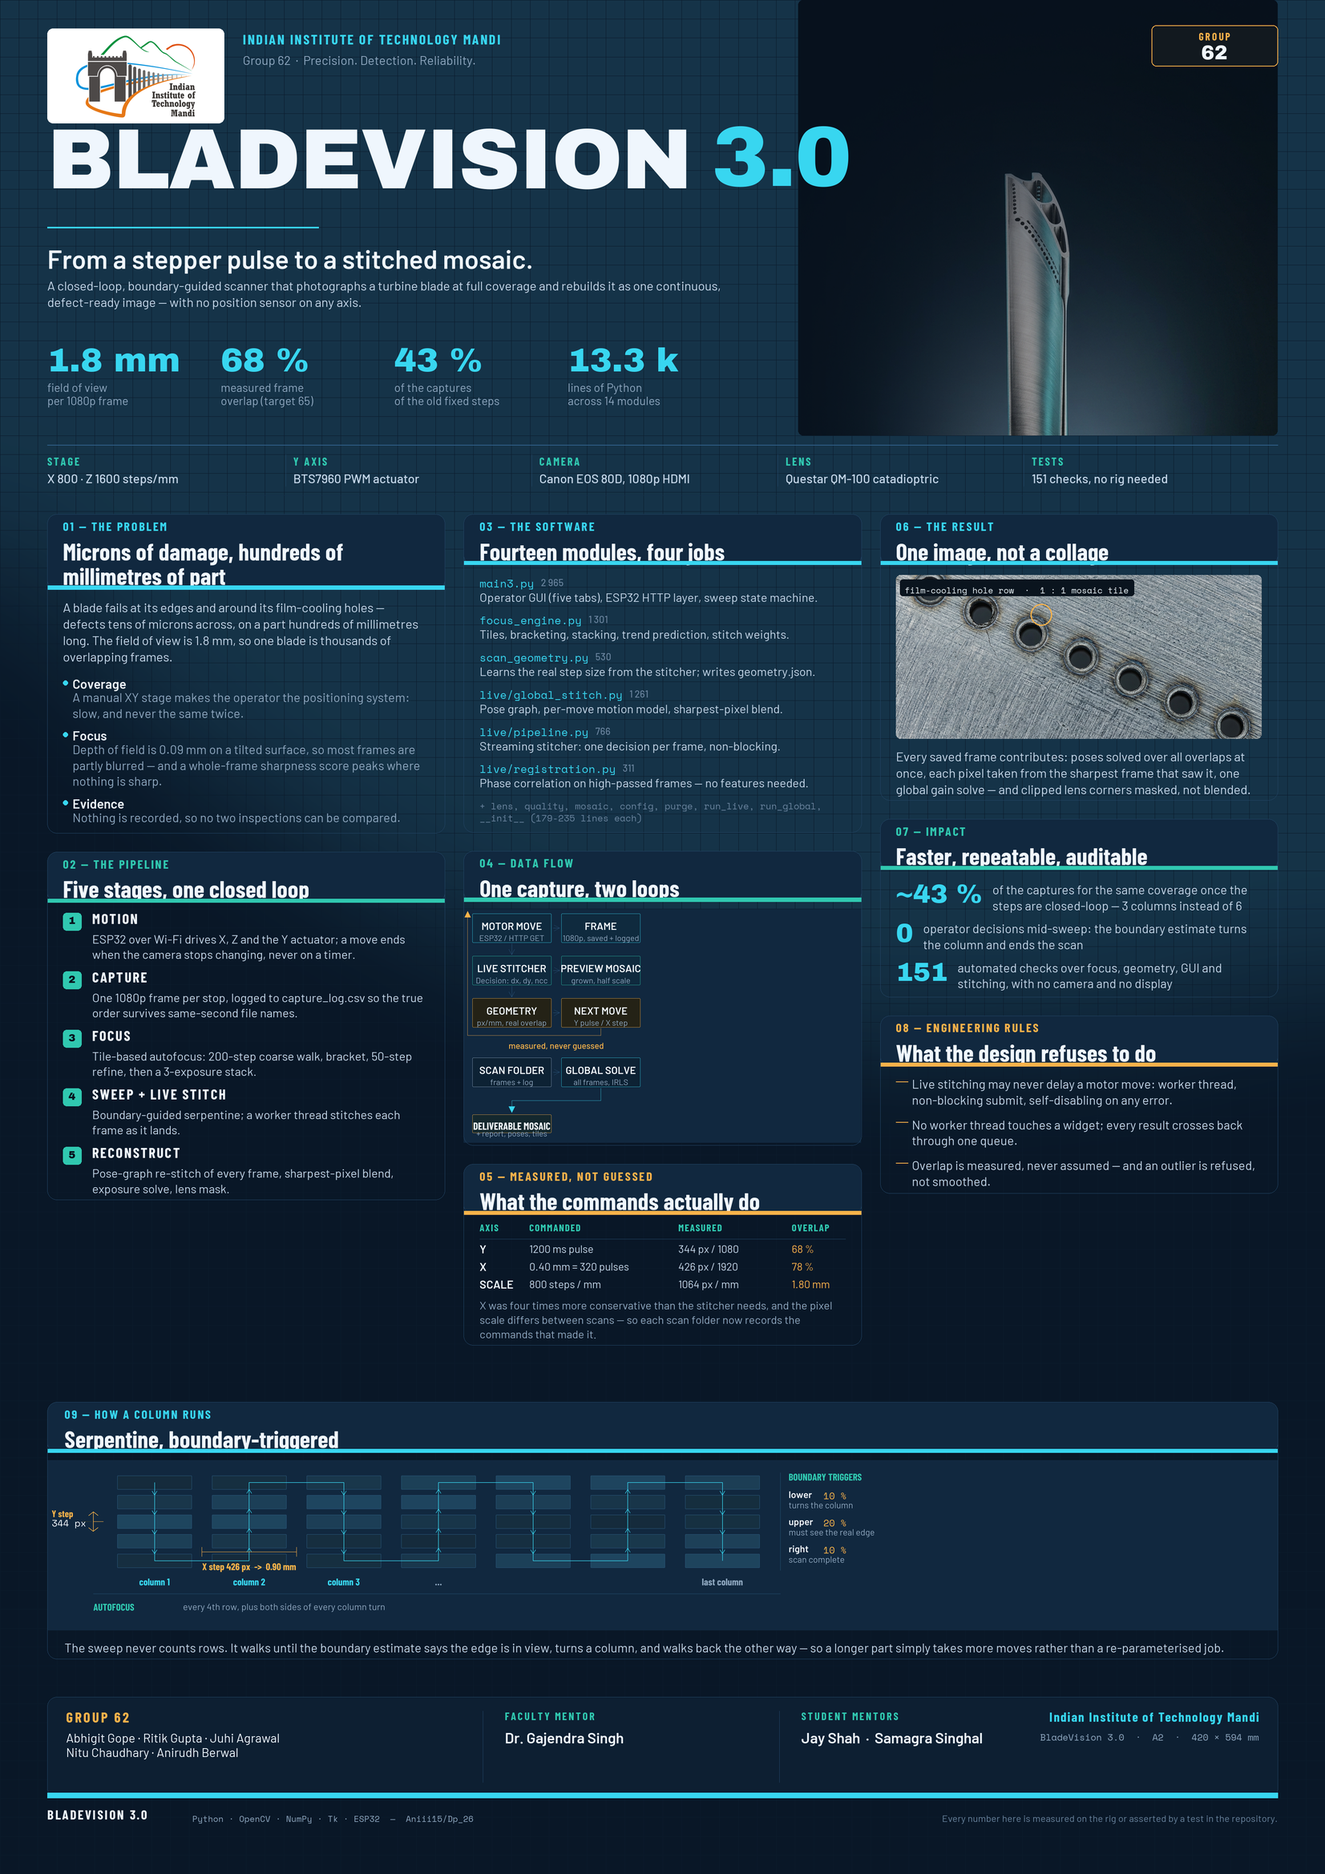
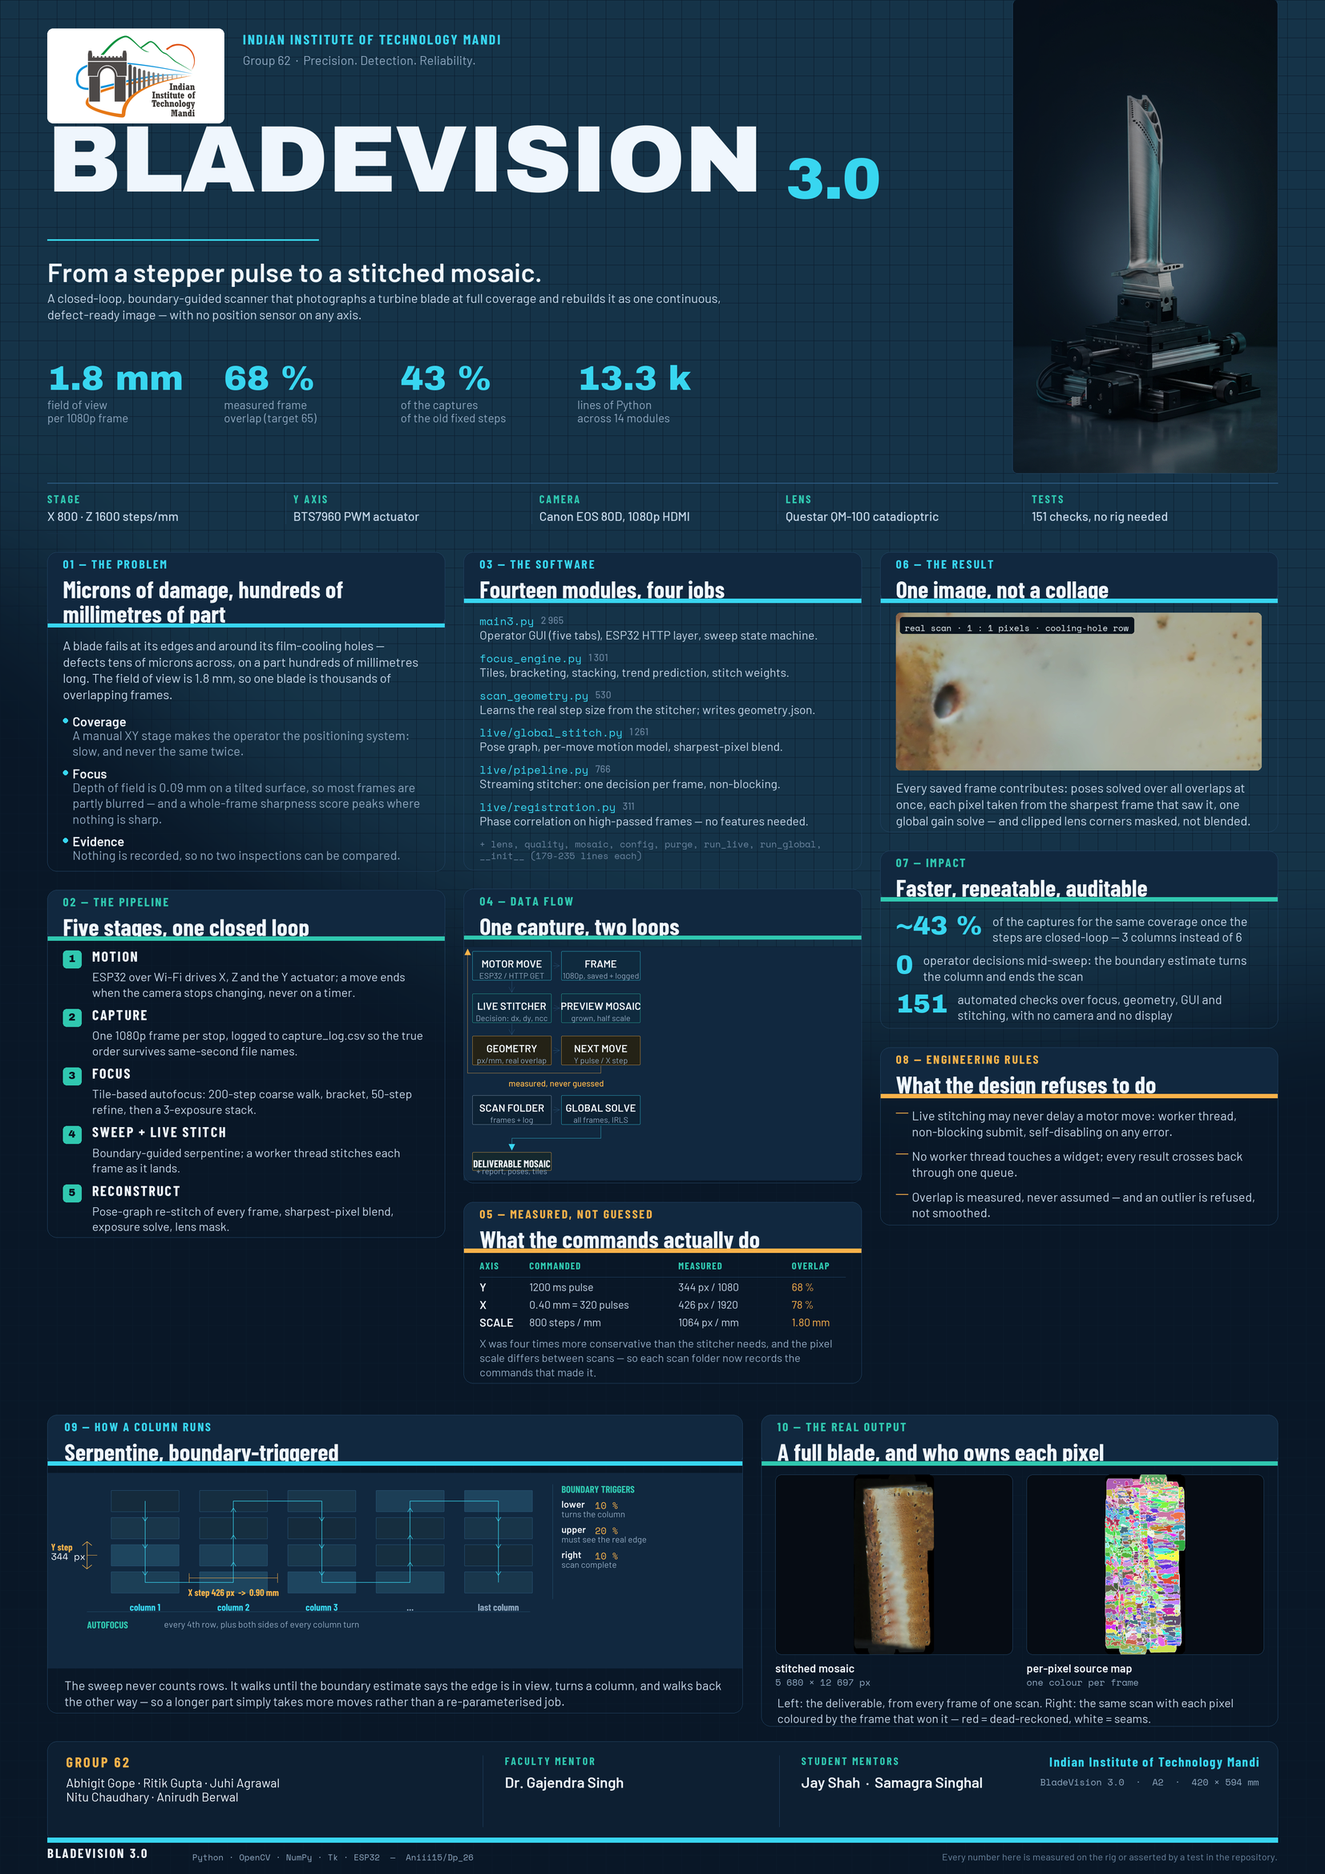
Poster v3: hero fitted whole, narrower sweep band, real scan images
Three fixes and the real data the poster was missing.

1. The masthead no longer collides.  The title is auto-fitted to the free
   width (it was set at a size that ran under the photo), and the hero is
   now a ~84 mm plate at full band height instead of a 152 mm crop: the
   blade image is 768x1376, so a tall narrow plate fits it exactly, tip to
   stage, with no part of it hidden under text.

2. "How a column runs" is no longer full width.  It takes 56.5 % of the
   measure (five columns, 4 rows, legend to the right, autofocus lane
   underneath), and the space to its right now holds the two real images:

     left   the 5 680 x 12 697 px stitched mosaic of a whole blade
     right  the per-pixel source map from the same scan

   with a caption that says what they are, plus a 1:1 crop of the same
   mosaic in the "result" card, replacing the generated surface render.
   Only the hero render is synthetic now.

   The source map is global_stitch.compose()'s _sources.png: each canvas
   pixel coloured by the frame that won it (Potts-MRF, seed 7), red for
   frames placed by dead reckoning, white for seams -- the diagnostic that
   says whether a line is a stitch error or real surface.

Also re-flowed the bottom band so the credits no longer run off the sheet
at 200 dpi, and documented both images in poster/README.md.

diff --git a/poster/build_poster.py b/poster/build_poster.py
@@ -153,6 +153,15 @@ def load_cover(path: str, w_px: int, h_px: int, focus_y=0.35) -> Image.Image:
     return im.resize((w_px, h_px), Image.LANCZOS)
 
 
+def load_fit(path: str, w_px: int, h_px: int) -> tuple[Image.Image, int]:
+    """Scale to fit *inside* the box, never crop.  Returns (image, y offset)."""
+    im = Image.open(path).convert("RGB")
+    sw, sh = im.size
+    k = min(w_px / sw, h_px / sh)
+    nw, nh = max(1, int(sw * k)), max(1, int(sh * k))
+    return im.resize((nw, nh), Image.LANCZOS), (h_px - nh) // 2
+
+
 def rounded_mask(size, radius):
     m = Image.new("L", size, 0)
     ImageDraw.Draw(m).rounded_rectangle([0, 0, size[0] - 1, size[1] - 1],
@@ -208,20 +217,28 @@ def build(dpi: int, out: str) -> str:
         xx += 6.0
 
     # ══ MASTHEAD ════════════════════════════════════════════════════════════
-    BAND = 138.0
-    hero_w = 152.0
+    BAND = 150.0
+    # The hero keeps its full height: the blade is 768x1376 (0.56 aspect), so a
+    # ~84 mm wide plate at 150 mm tall fits it almost exactly instead of
+    # cropping the tip or the stage.  Everything else gets the space back.
+    hero_w = 84.0
     hero_x = X1 - hero_w
-    hero = load_cover(os.path.join(ASSETS, "blade_hero.png"),
-                      c.px(hero_w), c.px(BAND), focus_y=0.0)
-    hero = fade(hero, "up", NAVY, 205)
-    hx, hw, hh = c.px(hero_x), hero.size[0], hero.size[1]
+    hero, oy = load_fit(os.path.join(ASSETS, "blade_hero.png"),
+                        c.px(hero_w), c.px(BAND))
+    hero = fade(hero, "up", NAVY, 120)
+    d.rounded_rectangle([c.px(hero_x) - 1, 0, c.px(hero_x + hero_w),
+                         c.px(BAND)], radius=c.px(1.5), fill=(12, 26, 42),
+                         outline=BORDER, width=1)
+    hw, hh = hero.size
+    hero_rgba = hero.convert("RGBA")
     veil = Image.new("RGBA", (hw, hh), (0, 0, 0, 0))
     vd = ImageDraw.Draw(veil)
     for i in range(hw):
-        a = int(210 * (1 - i / hw) ** 1.5)
+        a = int(150 * (1 - i / hw) ** 1.6)
         vd.line([(i, 0), (i, hh)], fill=NAVY + (a,))
-    hero_rgba = Image.alpha_composite(hero.convert("RGBA"), veil).convert("RGB")
-    c.img.paste(hero_rgba, (hx, 0), rounded_mask(hero_rgba.size, c.px(1.5)))
+    hero_rgba = Image.alpha_composite(hero_rgba, veil).convert("RGB")
+    c.img.paste(hero_rgba, (c.px(hero_x) + (c.px(hero_w) - hw) // 2, oy),
+                rounded_mask(hero_rgba.size, c.px(1.2)))
 
     # ── institute mark, on a white plate (the logo is a white-ground original)
     LW, LH = 56.0, 30.0
@@ -237,24 +254,34 @@ def build(dpi: int, out: str) -> str:
     c.img.paste(logo, (c.px(X0 + (LW - lw / c.k) / 2),
                        c.px(9 + (LH - lh / c.k) / 2) + 3))
 
-    # ── institutional line, to the right of the mark
     kx = X0 + LW + 6.0
     c.text(kx, 11.0, "INDIAN INSTITUTE OF TECHNOLOGY MANDI", c.font("head", 4.4),
            CYAN, spacing=0.45)
     c.text(kx, 16.6, "Group 62  ·  Precision. Detection. Reliability.",
            c.font("body", 3.9), MUTED)
 
-    title_f = c.font("display", 27)
-    c.text(X0, 41.0, "BLADEVISION", title_f, WHITE, spacing=-0.3)
-    tw = d.textlength("BLADEVISION", font=title_f) / c.k
-    c.text(X0 + tw + 3.0, 40.3, "3.0", c.font("display", 27), CYAN,
-           spacing=-0.3)
+    # ── title, sized to the space that is actually free
+    gap_r = hero_x - 8.0
+    title_src = "BLADEVISION"
+    size = 30.0
+    while size > 16.0:
+        f = c.font("display", size)
+        t = d.textlength(title_src, font=f) / c.k
+        t2 = d.textlength("3.0", font=c.font("display", size * 0.62)) / c.k
+        if X0 + t + 4.0 + t2 <= gap_r:
+            break
+        size -= 0.4
+    title_f = c.font("display", size)
+    c.text(X0, 40.0, title_src, title_f, WHITE, spacing=-0.3)
+    tw = d.textlength(title_src, font=title_f) / c.k
+    c.text(X0 + tw + 4.0, 40.0 + size * 0.34, "3.0",
+           c.font("display", size * 0.62), CYAN, spacing=-0.3)
 
-    d.line([(c.px(X0), c.px(72)), (c.px(X0 + 86), c.px(72))], fill=CYAN,
+    d.line([(c.px(X0), c.px(76)), (c.px(X0 + 86), c.px(76))], fill=CYAN,
            width=max(2, c.px(0.5)))
-    c.text(X0, 77.0, "From a stepper pulse to a stitched mosaic.",
-           c.font("semibold", 8.2), WHITE)
-    c.para(X0, 88.0, 228.0,
+    c.text(X0, 81.0, "From a stepper pulse to a stitched mosaic.",
+           c.font("semibold", 8.4), WHITE)
+    c.para(X0, 92.0, min(226.0, gap_r - X0),
            "A closed-loop, boundary-guided scanner that photographs a turbine "
            "blade at full coverage and rebuilds it as one continuous, "
            "defect-ready image — with no position sensor on any axis.",
@@ -265,17 +292,9 @@ def build(dpi: int, out: str) -> str:
             ("68 %", "measured frame\noverlap (target 65)"),
             ("43 %", "of the captures\nof the old fixed steps"),
             ("13.3 k", "lines of Python\nacross 14 modules")]):
-        sx = X0 + i * 55.0
-        c.text(sx, 108.5, big, c.font("display", 10.6), CYAN)
-        c.text(sx, 120.5, small, c.font("body", 3.7), MUTED)
-
-    bw = 40.0
-    d.rounded_rectangle([c.px(X1 - bw), c.px(8), c.px(X1), c.px(21)],
-                        radius=c.px(1.5), fill=(18, 25, 31), outline=AMBER,
-                        width=max(1, c.px(0.25)))
-    c.text(X1 - bw / 2, 10.4, "GROUP", c.font("head", 3.3), AMBER, anchor="ma",
-           spacing=0.6)
-    c.text(X1 - bw / 2, 13.2, "62", c.font("display", 6.2), WHITE, anchor="ma")
+        sx = X0 + i * 56.0
+        c.text(sx, 114.0, big, c.font("display", 10.8), CYAN)
+        c.text(sx, 126.0, small, c.font("body", 3.7), MUTED)
 
     # ══ SPEC BAR ════════════════════════════════════════════════════════════
     spec_y = BAND + 3.0
@@ -523,16 +542,13 @@ def build(dpi: int, out: str) -> str:
     x, y = cx[2], TOP
     ty = card(x, y, col_w, "06 — THE RESULT", "One image, not a collage")
     p = ty + 3.2
-    IMG_H = 52.0
-    macro = load_cover(os.path.join(ASSETS, "surface_macro.png"),
+    IMG_H = 50.0
+    macro = load_cover(os.path.join(ASSETS, "real_detail.png"),
                        c.px(col_w - 2 * tx), c.px(IMG_H), focus_y=0.5)
     mx, my = x + tx, p
     c.img.paste(macro, (c.px(mx), c.px(my)),
                 rounded_mask(macro.size, c.px(1.4)))
-    ring_x, ring_y = mx + 46.0, my + 12.6
-    d.ellipse([c.px(ring_x - 3.4), c.px(ring_y - 3.4), c.px(ring_x + 3.4),
-               c.px(ring_y + 3.4)], outline=AMBER, width=max(2, c.px(0.34)))
-    cap = "film-cooling hole row  ·  1 : 1 mosaic tile"
+    cap = "real scan · 1 : 1 pixels · cooling-hole row"
     cap_w = d.textlength(cap, font=c.font("mono", 2.7)) / c.k + 3.2
     d.rounded_rectangle([c.px(mx + 1.2), c.px(my + 1.4),
                          c.px(mx + 1.2 + cap_w), c.px(my + 6.6)],
@@ -586,20 +602,21 @@ def build(dpi: int, out: str) -> str:
     # ══ SERPENTINE (full width) ═════════════════════════════════════════════
     # the band sits in the space that is left, a little closer to the credits
     # than to the columns above it
-    by = col_bottom + GAP + 12.0
-    ty = card(X0, by, CW, "09 — HOW A COLUMN RUNS",
+    by = col_bottom + GAP + 4.0
+    serp_w = CW * 0.565
+    ty = card(X0, by, serp_w, "09 — HOW A COLUMN RUNS",
               "Serpentine, boundary-triggered", pad=5.4)
     p = ty + 2.4
-    DH = 54.0
-    patch = Image.new("RGB", (c.px(CW) * S, int(DH * c.k) * S), PANEL2)
+    DH = 62.0
+    patch = Image.new("RGB", (c.px(serp_w) * S, int(DH * c.k) * S), PANEL2)
     pd = ImageDraw.Draw(patch)
 
     def Q(a, b):
         return (a * c.k * S, b * c.k * S)
 
-    ncol, nrow = 7, 5
-    cwid, chei = 30.0, 6.2
-    ox, oy = 19.0, 4.0
+    ncol, nrow = 5, 4
+    cwid, chei = 28.0, 8.6
+    ox, oy = 17.0, 4.6
     for ci in range(ncol):
         for ri in range(nrow):
             x0 = ox + ci * cwid
@@ -611,11 +628,10 @@ def build(dpi: int, out: str) -> str:
                                  radius=1.6 * S, fill=fill,
                                  outline=(40, 84, 118), width=S)
         label = (f"column {ci + 1}" if ci < 3 else
-                 ("…" if ci == 3 else ("last column" if ci == 6 else "")))
+                 ("…" if ci == 3 else "last column"))
         pd.text(Q(ox + ci * cwid + cwid / 2, oy + nrow * chei + 1.6), label,
                 font=dfont("head", 3.1),
                 fill=CYAN if ci < 3 else MUTED, anchor="ma")
-
 
     path = []
     for ci in range(ncol):
@@ -637,6 +653,7 @@ def build(dpi: int, out: str) -> str:
                        tip[1] - 1.5 * math.sin(ang + sgn * 0.55)), Q(*tip)],
                     fill=CYAN, width=int(1.3 * S))
 
+    # Y step bracket, on the left
     yb = oy + 2.5 * chei
     pd.line([Q(ox - 4.4, yb - chei / 2), Q(ox - 4.4, yb + chei / 2)],
             fill=AMBER, width=int(1.4 * S))
@@ -646,55 +663,90 @@ def build(dpi: int, out: str) -> str:
         pd.line([Q(ox - 4.4 + sgn * 1.5, yb + chei / 2 - 1.2),
                  Q(ox - 4.4, yb + chei / 2)], fill=AMBER, width=int(1.4 * S))
     pd.line([Q(ox - 4.4, yb), Q(ox - 1.2, yb)], fill=AMBER, width=S)
-    pd.line([Q(11.0, yb), Q(ox - 5.0, yb)], fill=(60, 62, 40), width=S)
-    pd.text(Q(1.4, yb - 2.6), "Y step", font=dfont("head", 3.0), fill=AMBER,
+    pd.line([Q(11.4, yb), Q(ox - 5.0, yb)], fill=(60, 62, 40), width=S)
+    pd.text(Q(1.2, yb - 2.7), "Y step", font=dfont("head", 3.0), fill=AMBER,
             anchor="lm")
-    pd.text(Q(1.4, yb + 0.4), "344 px", font=dfont("mono", 3.0), fill=WHITE,
+    pd.text(Q(1.2, yb + 0.3), "344 px", font=dfont("mono", 3.0), fill=WHITE,
             anchor="lm")
 
-    ybase = oy + nrow * chei - 7.4
+    # X step bracket between column 1 and 2
+    ybase = oy + nrow * chei - 7.2
     pd.line([Q(ox + cwid, ybase), Q(ox + cwid, ybase + 3.0)], fill=AMBER, width=S)
     pd.line([Q(ox + cwid, ybase + 1.5), Q(ox + 2 * cwid, ybase + 1.5)],
             fill=AMBER, width=S)
     pd.line([Q(ox + 2 * cwid, ybase), Q(ox + 2 * cwid, ybase + 3.0)],
             fill=AMBER, width=S)
     pd.text(Q(ox + 1.5 * cwid, ybase + 4.2), "X step 426 px  ->  0.90 mm",
-            font=dfont("head", 3.1), fill=AMBER, anchor="ma")
+            font=dfont("head", 3.0), fill=AMBER, anchor="ma")
 
+    # legend: one block on the right, one lane under the grid
     ax = ox + ncol * cwid + 6.0
-    pd.line([Q(ax - 2.6, oy), Q(ax - 2.6, oy + nrow * chei)],
+    pd.line([Q(ax - 2.8, oy - 1.0), Q(ax - 2.8, oy + nrow * chei + 1.0)],
             fill=(34, 76, 108), width=S)
-    pd.text(Q(ax, oy - 0.6), "BOUNDARY TRIGGERS", font=dfont("head", 3.1),
+    pd.text(Q(ax, oy - 1.4), "BOUNDARY TRIGGERS", font=dfont("head", 3.1),
             fill=TEAL)
     for i, (k, pct, v) in enumerate([("lower", "10 %", "turns the column"),
                                      ("upper", "20 %", "must see the real edge"),
                                      ("right", "10 %", "scan complete")]):
-        yb2 = oy + 5.0 + i * 8.6
+        yb2 = oy + 3.4 + i * 8.0
         pd.text(Q(ax, yb2), k, font=dfont("semibold", 3.0), fill=WHITE)
-        pd.text(Q(ax + 11.0, yb2), pct, font=dfont("mono", 3.0), fill=AMBER)
-        pd.text(Q(ax, yb2 + 3.5), v, font=dfont("body", 2.8), fill=MUTED)
-    af_y = oy + nrow * chei + 9.0
-    pd.line([Q(ox - 4.4, af_y - 1.6), Q(ax - 2.6, af_y - 1.6)],
+        pd.text(Q(ax + 10.6, yb2), pct, font=dfont("mono", 3.0), fill=AMBER)
+        pd.text(Q(ax, yb2 + 3.3), v, font=dfont("body", 2.75), fill=MUTED)
+
+    af_y = oy + nrow * chei + 6.6
+    pd.line([Q(ox - 4.4, af_y - 1.6), Q(ox + ncol * cwid - 4.0, af_y - 1.6)],
             fill=(34, 76, 108), width=S)
     pd.text(Q(ox - 4.4, af_y + 0.6), "AUTOFOCUS", font=dfont("head", 3.1),
             fill=TEAL)
-    pd.text(Q(ox + 24.0, af_y + 0.6), "every 4th row, plus both sides of every "
-                                      "column turn", font=dfont("body", 2.9),
+    pd.text(Q(ox + 20.0, af_y + 0.6), "every 4th row, plus both sides of every "
+                                      "column turn", font=dfont("body", 2.85),
             fill=MUTED)
 
-    patch = patch.resize((c.px(CW), c.px(DH)), Image.LANCZOS)
+    patch = patch.resize((c.px(serp_w), c.px(DH)), Image.LANCZOS)
     c.img.paste(patch, (c.px(X0), c.px(p)))
     p += DH + 3.0
-    p = c.para(X0 + 5.4, p, CW - 10.8,
+    p = c.para(X0 + 5.4, p, serp_w - 10.8,
                "The sweep never counts rows. It walks until the boundary "
                "estimate says the edge is in view, turns a column, and walks "
                "back the other way — so a longer part simply takes more moves "
-               "rather than a re-parameterised job.", c.font("body", 4.0), BODY)
-    band_bottom = close(X0, by, CW, p + 1.0, "09 serpentine")
+               "rather than a re-parameterised job.", c.font("body", 3.9), BODY)
+    band1 = close(X0, by, serp_w, p + 1.0, "09 serpentine")
+
+    # ── the two real images, side by side: the mosaic and its source map ────
+    ix = X0 + serp_w + COLGAP
+    iw = CW - serp_w - COLGAP
+    ty = card(ix, by, iw, "10 — THE REAL OUTPUT",
+              "A full blade, and who owns each pixel", accent=TEAL, pad=5.0)
+    p = ty + 3.0
+    two_w = (iw - 3 * 4.4) / 2.0
+    ih = 57.0
+    for j, (path, cap_t, cap_s) in enumerate([
+            (os.path.join(ASSETS, "real_mosaic.jpg"), "stitched mosaic",
+             "5 680 × 12 697 px"),
+            (os.path.join(ASSETS, "real_sources.png"), "per-pixel source map",
+             "one colour per frame")]):
+        bxx = ix + 4.4 + j * (two_w + 4.4)
+        im, oy = load_fit(path, c.px(two_w), c.px(ih))
+        # a dark plate behind, so both images sit on the same ground
+        d.rounded_rectangle([c.px(bxx), c.px(p), c.px(bxx + two_w),
+                             c.px(p + ih)], radius=c.px(2), fill=(6, 12, 20),
+                            outline=BORDER, width=1)
+        c.img.paste(im, (c.px(bxx) + (c.px(two_w) - im.size[0]) // 2,
+                         c.px(p) + oy),
+                    rounded_mask(im.size, c.px(1.6)))
+        c.text(bxx, p + ih + 2.2, cap_t, c.font("semibold", 3.6), WHITE)
+        c.text(bxx, p + ih + 6.6, cap_s, c.font("mono", 2.9), MUTED)
+    p += ih + 13.0
+    p = c.para(ix + 5.0, p, iw - 10.0,
+               "Left: the deliverable, from every frame of one scan. Right: the "
+               "same scan with each pixel coloured by the frame that won it — "
+               "red = dead-reckoned, white = seams.", c.font("body", 3.75), BODY)
+    band2 = close(ix, by, iw, p, "10 real output")
+    band_bottom = max(band1, band2)
 
     # ══ CREDITS ═════════════════════════════════════════════════════════════
     cred_h = 32.0
-    cy0 = band_bottom + 12.0
+    cy0 = min(band_bottom + 8.0, H_MM - 10.0 - cred_h)
     d.rounded_rectangle([c.px(X0), c.px(cy0), c.px(X1), c.px(cy0 + cred_h)],
                         radius=c.px(3), fill=PANEL, outline=BORDER, width=1)
     d.rectangle([c.px(X0), c.px(cy0 + cred_h - 1.6), c.px(X1),

diff --git a/poster/README.md b/poster/README.md
@@ -9,6 +9,12 @@ Deliverables (A2 portrait, 420 × 594 mm):
 | `BladeVision_3.0_A2_preview.png` | half-size preview for screens |
 | `build_poster.py` | regenerates all of it; every number is traceable to the repo |
 
+Imagery: `assets/blade_hero.png` (the rig — a generated render, whole blade and
+stage, nothing cropped), `assets/real_mosaic.jpg` and `assets/real_sources.png`
+(**real output** from one scan: the 5 680 x 12 697 px deliverable and the
+per-pixel source map), and `assets/real_detail.png` (a 1:1 crop of that mosaic).
+Only the hero is synthetic; the three scan images are the pipeline's own files.
+
 Regenerate:
 
 ```bash
@@ -16,10 +22,10 @@ python build_poster.py --dpi 96  --out proof.png     # quick proof
 python build_poster.py --dpi 200                      # print file
 ```
 
-Layout: masthead with the IIT Mandi mark and the four headline numbers, a
-five-item spec bar (stage / Y axis / camera / lens / tests), then nine numbered
-cards — problem, pipeline, software map, data flow, measured geometry, result,
-impact, engineering rules, and a full-width serpentine band — plus credits. Type is Archivo Black / Barlow / Barlow Condensed /
+Layout: masthead with the IIT Mandi mark, the four headline numbers and a
+whole-blade hero plate (fit, never cropped); a five-item spec bar (stage / Y axis
+/ camera / lens / tests); eight numbered cards in three columns; then a bottom
+band with the serpentine diagram (left) and two real full-blade images (right). Type is Archivo Black / Barlow / Barlow Condensed /
 Space Mono (SIL OFL, in `assets/fonts`). Cyan = system, teal = process,
 amber = anything measured on the rig.
 
@@ -27,6 +33,13 @@ Print notes: the A2 is designed with a 15 mm margin, so a 3–5 mm bleed trim is
 safe. The background is a near-flat navy with a very light grain — if the
 printer bands, ask for it to be printed at 200 dpi on matte stock rather than
 downsampled.
+
+The per-pixel source map is written by `global_stitch.compose()` as
+`<prefix>_sources.png`: each canvas pixel is coloured by the frame the Potts-MRF
+blend gave it (seed 7, so colours are stable between runs), red marks frames
+placed by dead reckoning (`placed_by_prior`) and white marks label boundaries —
+i.e. the seams. It is the diagnostic that answers "is that line a stitch error
+or real surface?".
 
 Optics are named on the poster as the rig has them: **Canon EOS 80D** body on a
 **Questar QM-100** long-distance Maksutov-Cassegrain catadioptric microscope —
